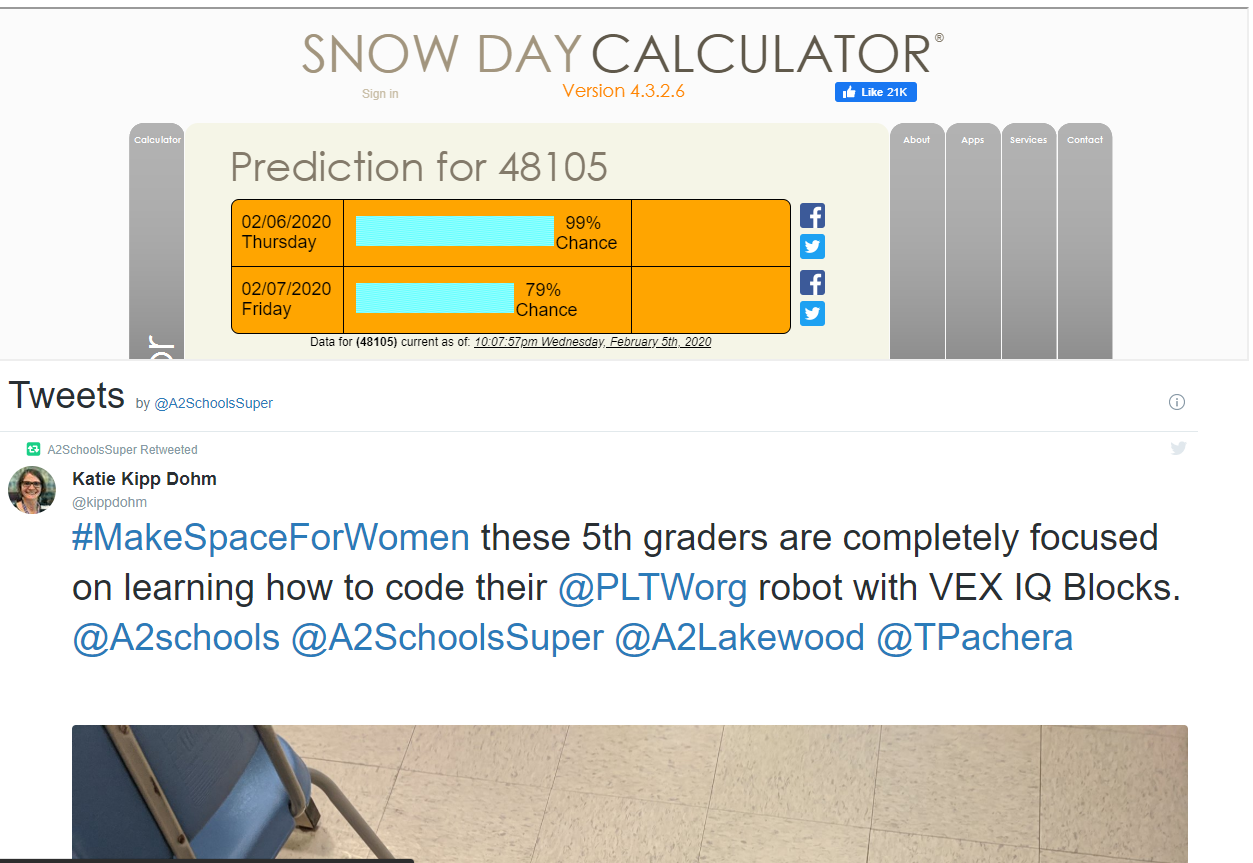
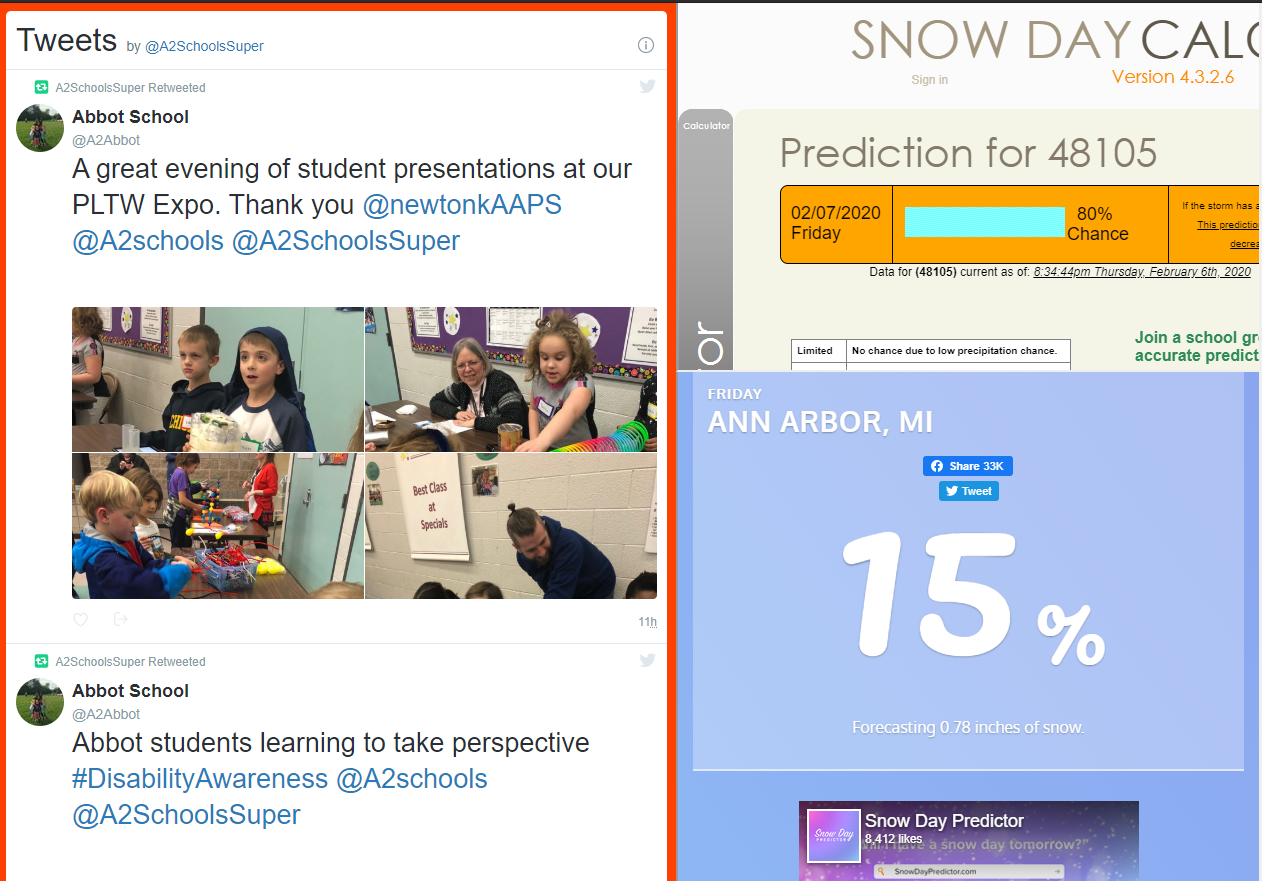
aapsreload 2.0
now has snow day predictor! and looks a tiny bit better (very very slightly)

diff --git a/atlib/aapsreload/index.html b/atlib/aapsreload/index.html
@@ -1,16 +1,17 @@
 <html>
     <head>
       <link rel="icon" href="../ref/Disc_Plain_blue_dark.png">
+      <link rel="stylesheet" type="text/css" href="./style.css">
       <title>Twitter & Snowday Calculator Reloader</title>
     </head>
 
-    <body>
-        <iframe id="ab" src="https://www.snowdaycalculator.com/prediction.php?zipcode=48105&snowdays=1&extra=0&" width=100% height="350px"></iframe>
-        <script>
-            document.getElementById('ab').onload = function(){ setTimeout("document.getElementById('ab').contentWindow.scrollTo(5, 20)", 1) }
-        </script>
-        <a class="twitter-timeline" href="https://twitter.com/A2SchoolsSuper?ref_src=twsrc%5Etfw">Tweets by A2SchoolsSuper</a>
+    <body bgcolor=#fc4103>
+
+        <a class="twitter-timeline" href="https://twitter.com/A2SchoolsSuper?ref_src=twsrc%5Etfw" width=53%>Tweets by A2SchoolsSuper</a>
         <script async src="https://platform.twitter.com/widgets.js" charset="utf-8"></script>
-        <meta http-equiv="refresh" content="10; URL=index.html">
+        <meta http-equiv="refresh" content="30; URL=index.html">
+
+        <iframe id="pred" class="bottom" src="https://snowdaypredictor.com/result.html?q=48105" width=46% height="1100px"></iframe>
+        <iframe id="calc" class="bottom" src="https://www.snowdaycalculator.com/prediction.php?zipcode=48105&snowdays=1&extra=0&" width=46% height="375px"></iframe>
     </body>
 </html>

diff --git a/atlib/aapsreload/style.css b/atlib/aapsreload/style.css
@@ -1,0 +1,20 @@
+.top {
+    vertical-align: top;
+}
+
+.bottom {
+    vertical-align: top;
+}
+
+#calc {
+    position: absolute;
+    top: -10px;
+    right: 0;
+
+}
+
+#pred {
+    position: absolute;
+    top: 75px;
+    right: 0;
+}
